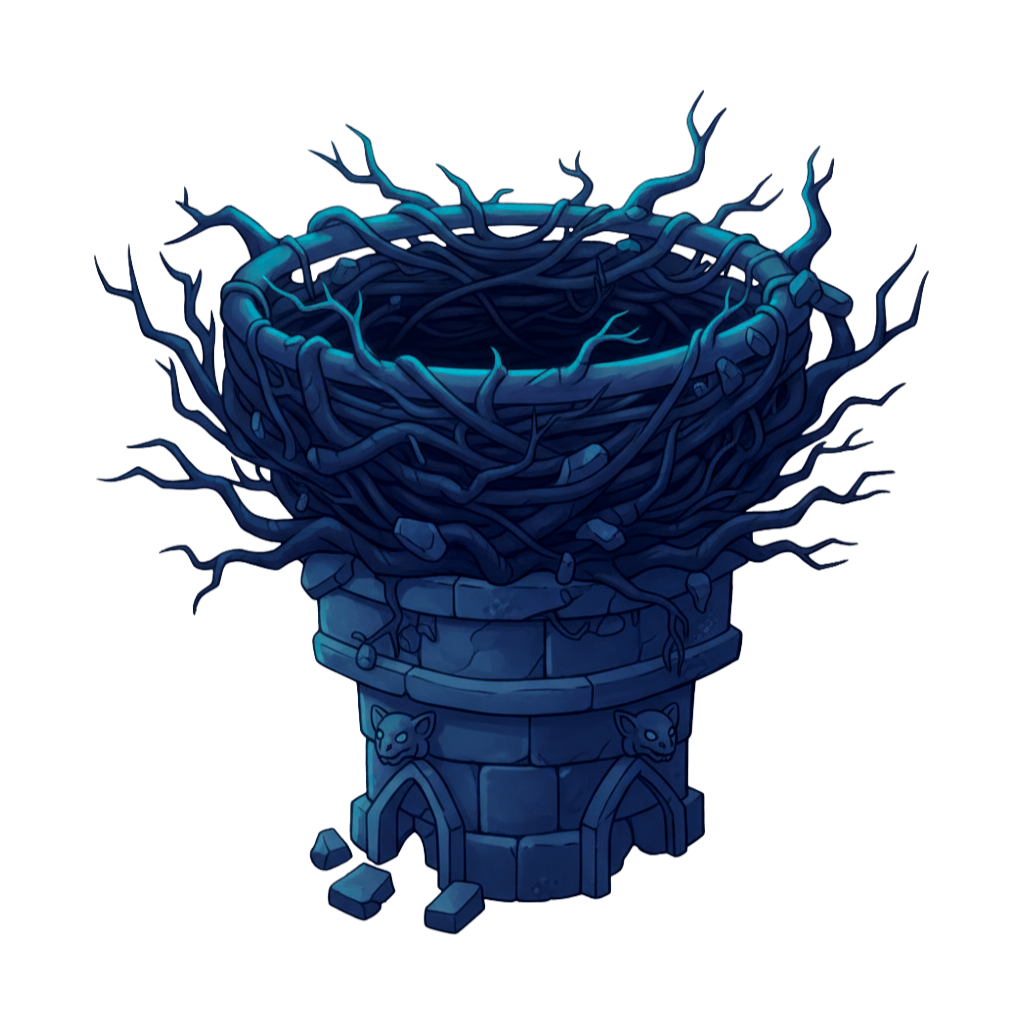
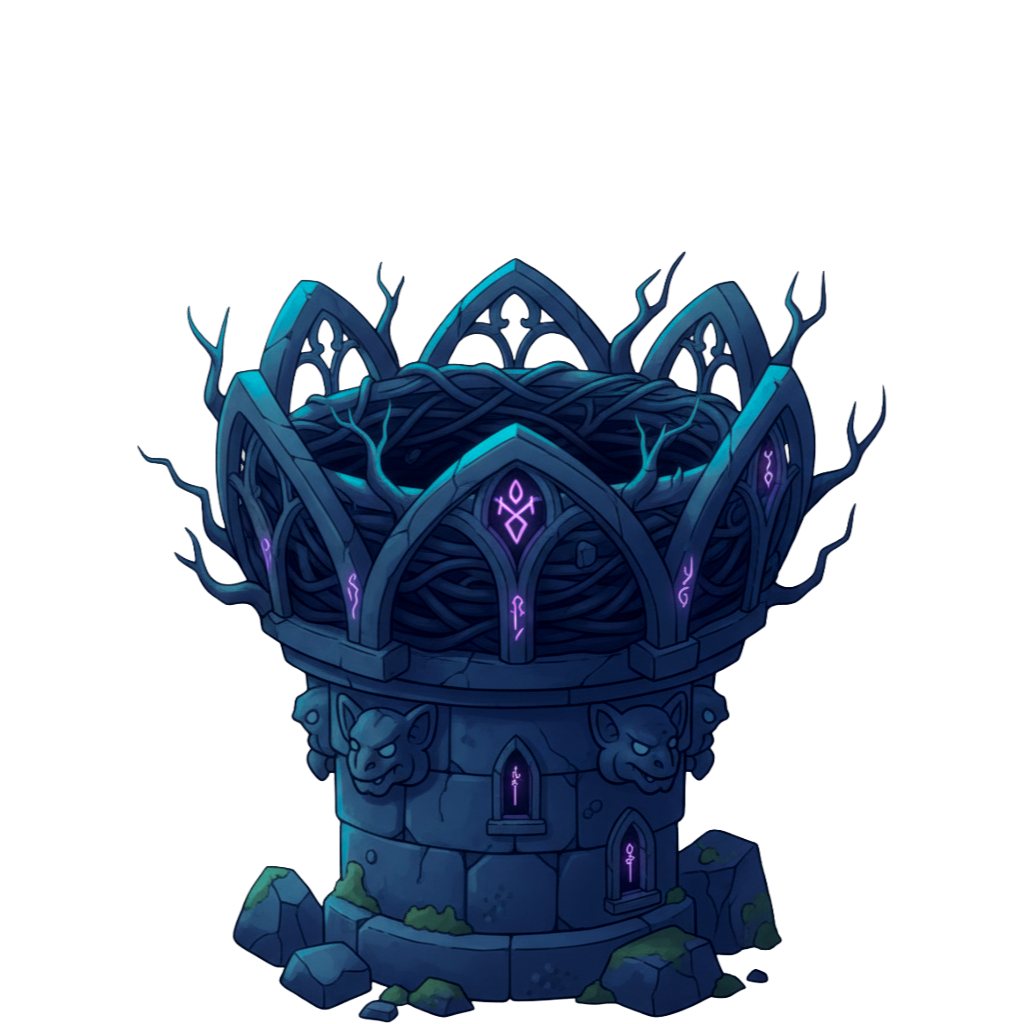
Add: added child and nest. nest disappears once adult age

diff --git a/src/main/resources/static/css/game.css b/src/main/resources/static/css/game.css
@@ -549,42 +549,184 @@ body::before{
 
 
   /* If these don’t exist yet, comment them out for now */
-  /* .stage__stars{ background-image: url("/images/scene/stars.png"); } */
+  /* .stage__stars{ background-image: url("/images/scene/stars.png"); }
+
+  @supports (background-image: url("/images/scene/sky.png")){
+    .stage__sky{
+      background-image:
+        linear-gradient(180deg, rgba(5,1,11,0.35), rgba(7,10,26,0.25)),
+        url("/images/scene/sky.png");
+      background-position: center top;
+      background-size: cover;
+      opacity: calc(1 * var(--use-scene-images));
+    }
+
+    /* ✅ ADD / UNCOMMENT THIS */
+    .stage__stars{
+      background-image: url("/images/scene/stars.png");
+      background-position: center top;
+      background-repeat: repeat;      /* important for small star tiles */
+      background-size: 420px auto;    /* tweak 300–800 depending on taste */
+      opacity: 0.75;                  /* tune */
+      mix-blend-mode: screen;         /* keeps black “invisible” */
+
+    /* Gentle twinkle */
+      animation:
+        parallax-mid 120s linear infinite,
+        stars-twinkle 6.5s ease-in-out infinite;
+      will-change: transform, opacity, filter;
+    }
+
+    @keyframes stars-twinkle{
+      0%, 100% { opacity: 0.65; filter: brightness(1.0); }
+      50%      { opacity: 0.85; filter: brightness(1.15); }
+    }
+
+    @media (prefers-reduced-motion: reduce){
+      .stage__stars{ animation: none; }
+    }
+
+
+
+
   /* .stage__moon { background-image: url("/images/scene/moon.png"); } */
   /* .stage__fx   { background-image: url("/images/scene/fx.png"); } */
 }
 
 
-/* Creature sits above roof */
+/* =========================================================
+   CREATURE + NEST (CHILD ONLY) — CLEAN + ALIGNED
+   Paste this where your current creature/nest section is.
+   ========================================================= */
+
+/* Container that centers the creature stack */
 .creature-slot{
-  position:absolute;
-  inset:0;
-  display:grid;
-  place-items:center;
+  position: absolute;
+  inset: 0;
+  display: grid;
+  place-items: center;
   z-index: 5;
   pointer-events: none;
+
+  /* lifts whole stack a bit so it sits on the roof nicely */
+  padding-bottom: 40px; /* tweak 20–70 */
 }
 
-.creature-placeholder{
-  font-weight: 1100;
-  letter-spacing: 2px;
-  text-transform: uppercase;
-  font-size: clamp(2rem, 5vw, 3.5rem);
-  color: rgba(241,238,255,0.88);
-  text-shadow:
-    0 10px 22px rgba(0,0,0,0.55),
-    var(--glow-cyan);
-}
-
-/* Creature sprite (stable + readable) */
+/* Creature */
 .creature-sprite{
   width: min(260px, 62%);
   height: auto;
   display: block;
-  transform: translateY(10px);
-  filter: drop-shadow(0 18px 28px rgba(0,0,0,0.55));
   user-select: none;
   -webkit-user-drag: none;
+
+  position: relative;
+  z-index: 6; /* above nest */
+
+  /* IMPORTANT: don't set transform here (bob animation uses transform) */
+  filter:
+    drop-shadow(0 18px 28px rgba(0,0,0,0.55))
+    drop-shadow(0 0 18px rgba(155,92,255,0.18));
+}
+
+/* Nest wrapper (child only) — we position THIS, not the img */
+.nest-wrap{
+  position: absolute;
+  left: 50%;
+
+  /* Put nest under the baby, not behind its head */
+  bottom: 1%;            /* tweak 2–10% */
+  transform: translateX(-50%);
+
+  width: min(320px, 74%); /* tweak 260–380px or % */
+  display: grid;
+  place-items: center;
+
+  z-index: 4;            /* behind creature */
+  pointer-events: none;
+
+  animation: nest-float 6.2s ease-in-out infinite;
+  will-change: transform, opacity, filter;
+
+  filter:
+    drop-shadow(0 24px 28px rgba(0,0,0,0.55))
+    drop-shadow(0 0 26px rgba(36,214,255,0.14));
+}
+
+/* Nest image */
+.nest-sprite{
+  width: 100%;
+  height: auto;
+  display: block;
+  opacity: 0.98;
+  user-select: none;
+  -webkit-user-drag: none;
+  pointer-events: none;
+}
+
+/* Aura ring UNDER the nest */
+.nest-wrap::after{
+  content:"";
+  position:absolute;
+  left: 50%;
+  bottom: -10%;
+  width: 72%;
+  height: 22%;
+  transform: translateX(-50%);
+  border-radius: 999px;
+  background: radial-gradient(closest-side, rgba(155,92,255,0.38), transparent 72%);
+  filter: blur(10px);
+  opacity: 0.75;
+  animation: aura-pulse 3.8s ease-in-out infinite;
+  pointer-events:none;
+}
+
+/* Sparkle dust around the nest */
+.nest-wrap::before{
+  content:"";
+  position:absolute;
+  inset: -22% -26%;
+  background:
+    radial-gradient(circle at 18% 62%, rgba(255,255,255,0.55) 0 1px, transparent 3px),
+    radial-gradient(circle at 34% 48%, rgba(36,214,255,0.45) 0 1px, transparent 3px),
+    radial-gradient(circle at 56% 58%, rgba(255,61,242,0.35) 0 1px, transparent 3px),
+    radial-gradient(circle at 72% 42%, rgba(155,92,255,0.40) 0 1px, transparent 3px),
+    radial-gradient(circle at 80% 64%, rgba(255,255,255,0.40) 0 1px, transparent 3px);
+  opacity: 0.35;
+  filter: blur(0.2px);
+  animation: spark-drift 6.8s ease-in-out infinite;
+  pointer-events:none;
+}
+
+/* Optional: tiny "magic lift" WITHOUT fighting bob
+   (we use margin, not transform) */
+.stage .creature-slot .creature-sprite{
+  top: -55px; /* tweak raise creature height*/
+  margin-bottom: 5px; /* tweak 0–24 */
+}
+
+/* Animations */
+@keyframes nest-float{
+  0%, 100% { transform: translateX(-50%) translateY(0);    opacity: 0.95; }
+  50%      { transform: translateX(-50%) translateY(-6px); opacity: 1; }
+}
+
+@keyframes aura-pulse{
+  0%, 100% { transform: translateX(-50%) scale(1);    opacity: 0.60; }
+  50%      { transform: translateX(-50%) scale(1.10); opacity: 0.88; }
+}
+
+@keyframes spark-drift{
+  0%, 100% { transform: translateY(2px);  opacity: 0.22; }
+  50%      { transform: translateY(-7px); opacity: 0.45; }
+}
+
+@media (prefers-reduced-motion: reduce){
+  .nest-wrap,
+  .nest-wrap::before,
+  .nest-wrap::after{
+    animation:none;
+  }
 }
 
 

diff --git a/src/main/resources/templates/game.html b/src/main/resources/templates/game.html
@@ -1,4 +1,4 @@
-<!-- src/main/resources/templates/game.html -->
+'<!-- src/main/resources/templates/game.html -->
 <!DOCTYPE html>
 <html lang="en" xmlns:th="http://www.thymeleaf.org">
 <head>
@@ -192,8 +192,15 @@
                 <div class="stage__layer stage__moon" aria-hidden="true"></div>
                 <div class="stage__layer stage__roof" aria-hidden="true"></div>
 
-                <!-- Creature (PNG placeholder) -->
+                <!-- Creature + Nest -->
                 <div class="creature-slot">
+
+                    <!-- Nest (CHILD only) -->
+                    <div class="nest-wrap" th:if="${gargoyle.type.name() == 'CHILD'}" aria-hidden="true">
+                        <img class="nest-sprite" th:src="@{/images/scene/nest.png}" alt="">
+                    </div>
+
+                    <!-- Creature -->
                     <img class="creature-sprite bob"
                          th:src="@{/images/gargoyle/baby.png}"
                          alt="Your gargoyle">
@@ -212,6 +219,7 @@
                 <!-- subtle FX layer -->
                 <div class="stage__layer stage__fx" aria-hidden="true"></div>
             </div>
+
         </section>
 
         <!-- RIGHT HUD: TIP + TESTING -->
@@ -550,4 +558,4 @@
 </script>
 <script th:src="@{/js/inventory-live.js}"></script>
 </body>
-</html>
+</html>'
